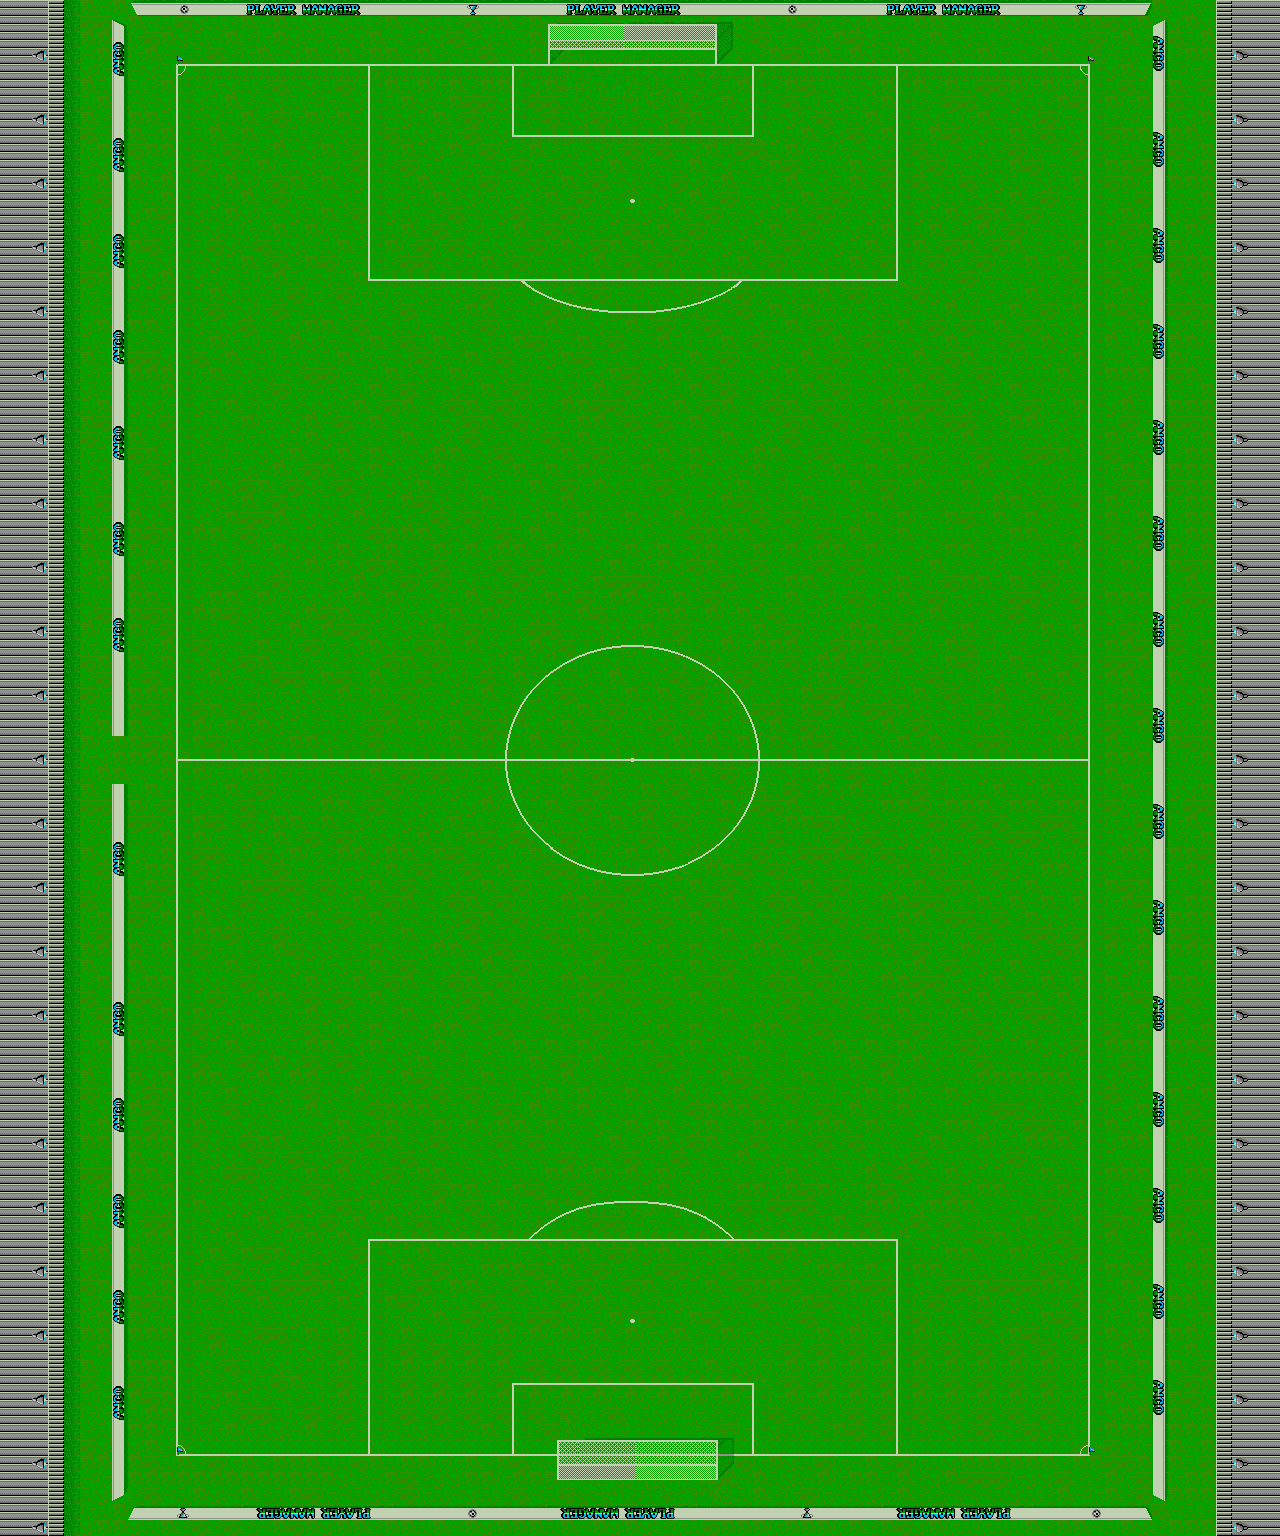
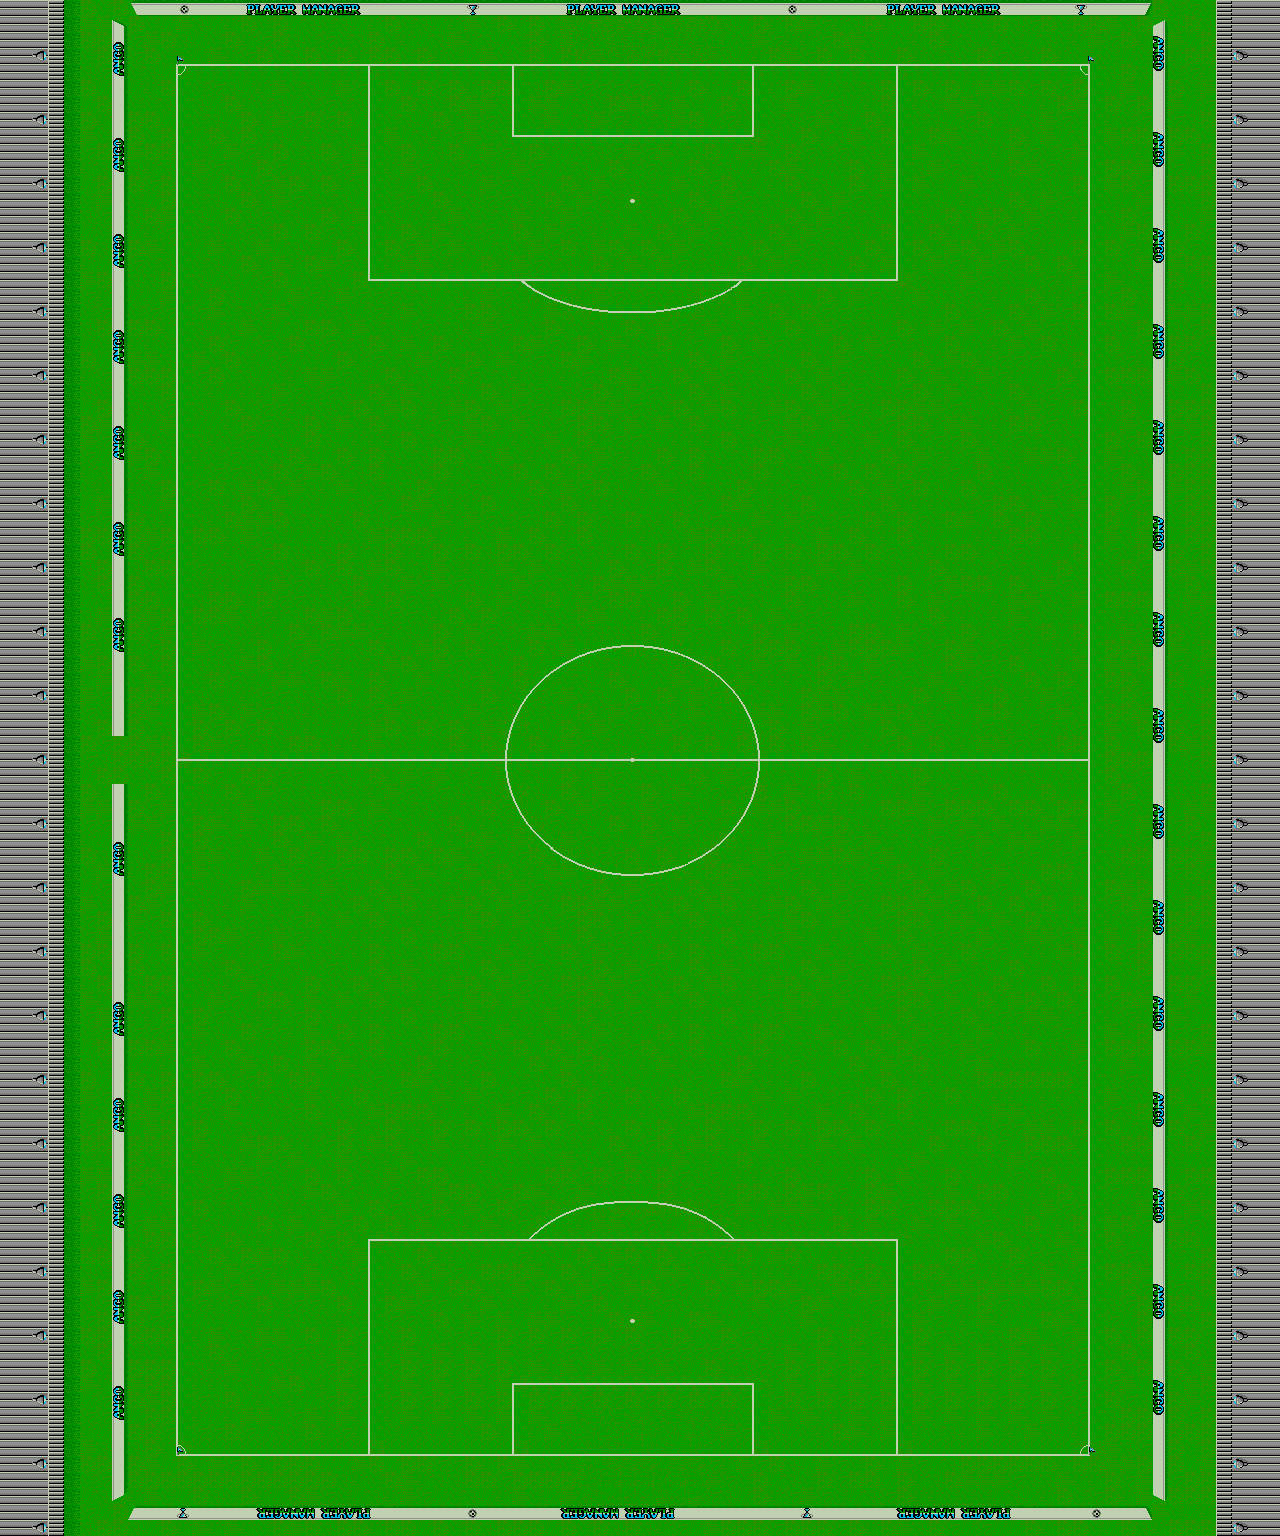
se agrego arco nuevo

Changed region(s): [[0.4375, 0.9062, 0.5938, 1.0], [0.4062, 0.0, 0.5938, 0.0938]]

diff --git a/TPFinal/Soccer/src/main/java/soccer/SoccerGame.java b/TPFinal/Soccer/src/main/java/soccer/SoccerGame.java
@@ -19,6 +19,8 @@ public class SoccerGame extends Game {
 		SoccerScene scene = new SoccerScene("sonido1.wav");
 		
 		Cancha cancha = new Cancha("cancha.png", 0, 0);
+		Arco arco = new Arco("arco.png");
+		
 		LabelSeleccionado label = new LabelSeleccionado(434, 828);
 		
 		Jugador jugador = new Jugador("jugadores.png", 100, 425, 800, label);
@@ -30,6 +32,7 @@ public class SoccerGame extends Game {
 		scene.addJugador(jugador2);
 		scene.addJugador(jugador3);
 		scene.addComponent(label);
+		scene.setArco(arco);
 		this.setCurrentScene(scene);
 
 	}

diff --git a/TPFinal/Soccer/src/main/java/soccer/Cancha.java b/TPFinal/Soccer/src/main/java/soccer/Cancha.java
@@ -6,10 +6,10 @@ import com.uqbar.vainilla.appearances.Sprite;
 import com.uqbar.vainilla.events.constants.Key;
 
 public class Cancha extends GameComponent<SoccerScene>{
-
 	
-	public Cancha(String imagePath1, double x, double y){
-		super(Sprite.fromImage(imagePath1),x,y);
+	public Cancha(String cancha, double x, double y){
+		super(Sprite.fromImage(cancha),x,y);
+		
 	}
 	@Override
 	public void update(DeltaState deltaState) {

diff --git a/TPFinal/Soccer/src/main/java/soccer/SoccerScene.java b/TPFinal/Soccer/src/main/java/soccer/SoccerScene.java
@@ -11,8 +11,18 @@ public class SoccerScene extends GameScene {
 
 	private Cancha cancha;
 	private List<Jugador> jugadores = new ArrayList<Jugador>();
+	private Arco arco;
 	
 	
+	public Arco getArco() {
+		return arco;
+	}
+
+	public void setArco(Arco arco) {
+		this.arco = arco;
+		this.addComponent(arco);
+	}
+
 	public Cancha getCancha() {
 		return cancha;
 	}

diff --git a/TPFinal/Soccer/src/main/java/soccer/Arco.java b/TPFinal/Soccer/src/main/java/soccer/Arco.java
@@ -1,0 +1,15 @@
+package soccer;
+
+import com.uqbar.vainilla.GameComponent;
+import com.uqbar.vainilla.appearances.Sprite;
+
+public class Arco extends GameComponent<SoccerScene>{
+	
+	public Arco(String arcoPath){
+		
+		super(Sprite.fromImage(arcoPath).scaleTo(210, 100), 525,8);
+		
+	
+	}
+
+}
